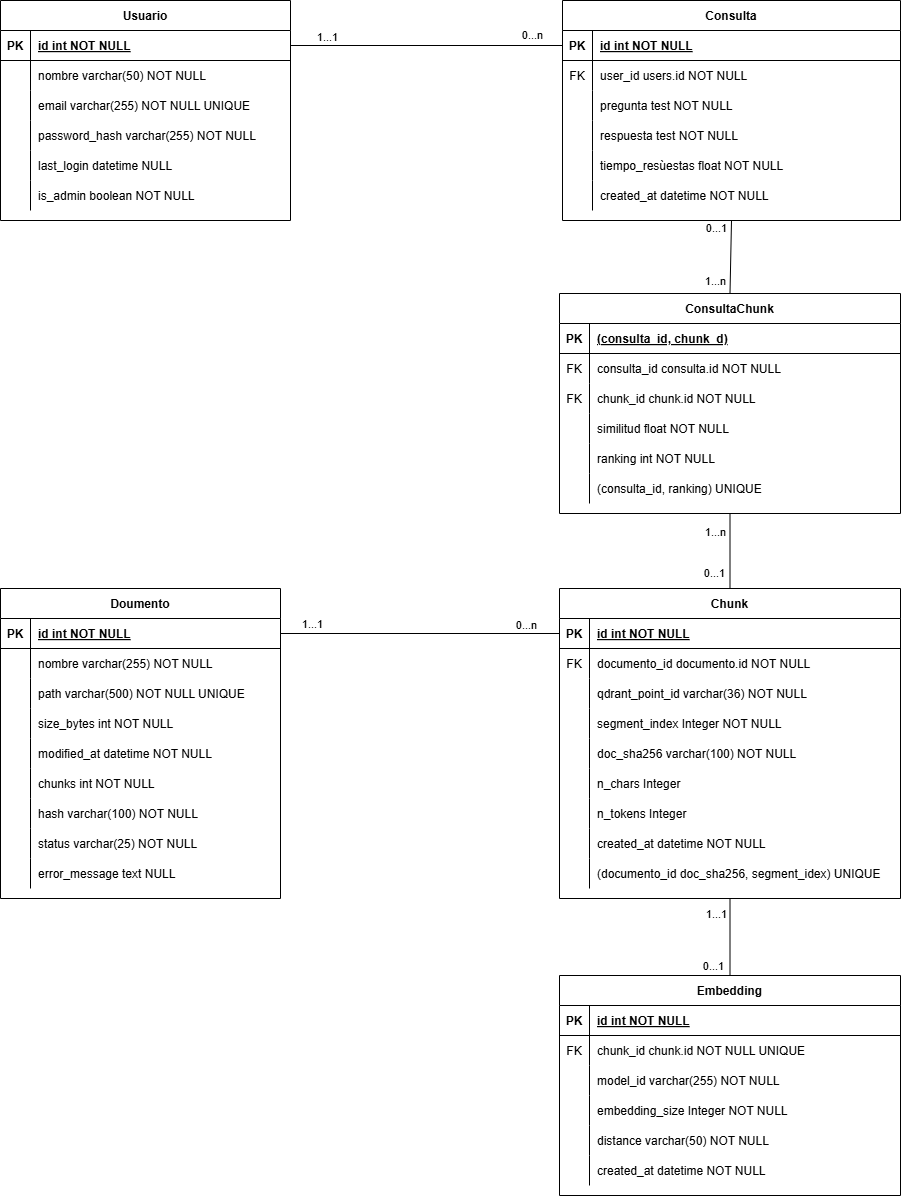
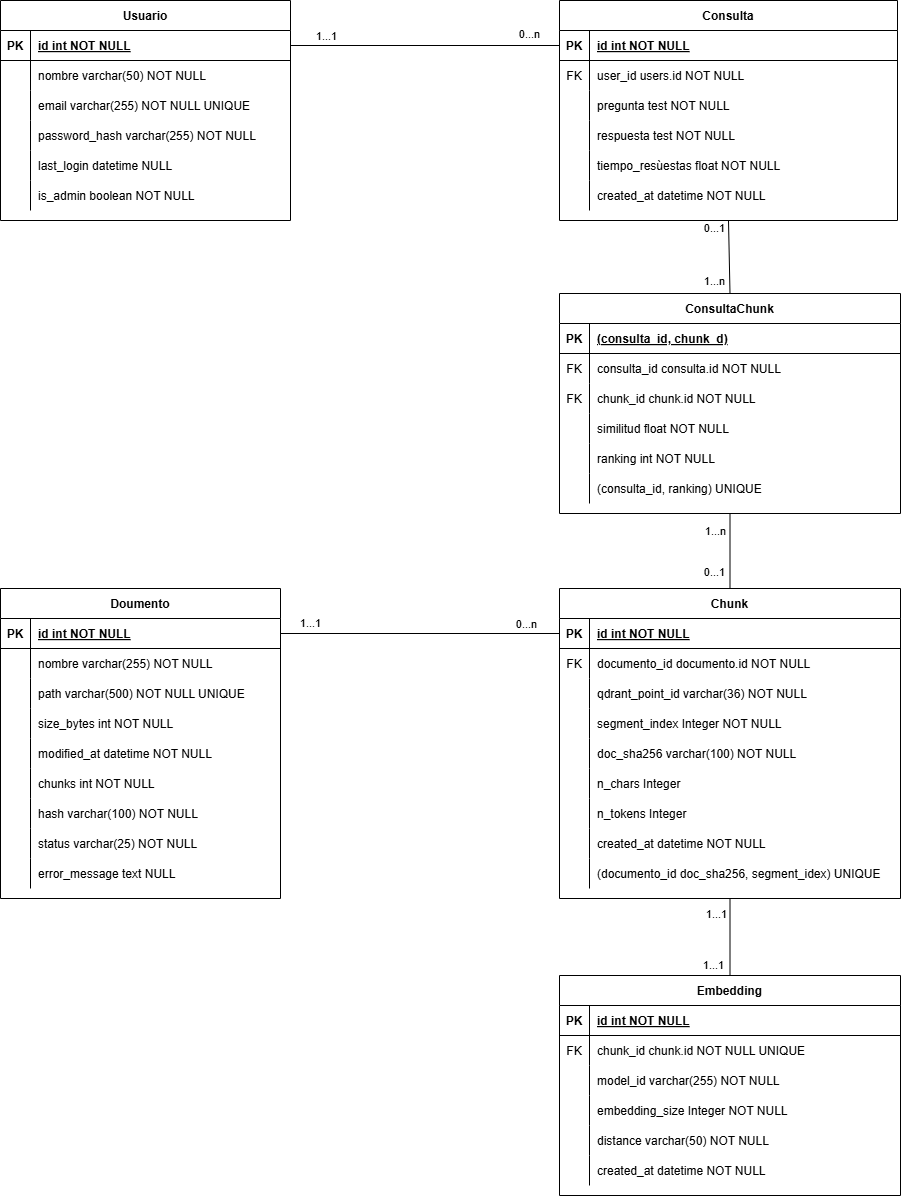
Correcciones del diseño de datos en los anexos

Changed region(s): [[0.6215, 0.0309, 0.8701, 0.2166], [0.9945, 0.0, 1.0, 0.1856], [0.7769, 0.0, 0.8391, 0.0309]]

diff --git a/docs/LaTex/tex/C_Diseno.tex b/docs/LaTex/tex/C_Diseno.tex
@@ -22,7 +22,7 @@ Las relaciones entre las entidades son:
 	\item Cada consulta pertenece a un usuario.
 	\item Un documento tiene cero (si esta cargado pero no indexado) o varios \textit{chunks}.
 	\item Cada \textit{chunk} pertenece a un documento.
-	\item Un \textit{chunk} puede tener cero o un \textit{embedding}.
+	\item Un \textit{chunk} tiene un \textit{embedding}.
 	\item Cada \textit{embedding} pertenece a un \textit{chunk}.
 	\item Una consulta usa uno o varios \textit{chunk}.
 	\item Un \textit{chunk} puede ser usado por cero o varias consultas.
@@ -57,7 +57,7 @@ Los prototipos iniciales que se crearon se ilustran en las figuras ~\ref{fig:Dis
 \imagenflotante{Diseño_interfaces/prototipos/Edit_user}{Prototipo de la página de edición del usuario.}
 \imagenflotante{Diseño_interfaces/prototipos/Documents}{Prototipo de la página de gestión de documentos.}
 
-Aunque estos prototipos se asemejan mucho a las interfaces finales se han realizado diversos cambios. Por ejemplo se ha cambiado la cabecera para aportar más información como el nombre del usuario que inicia sesión, su rol (usuario normal o administrador) y su último inicio de sesión ~\ref{fig:Diseño_interfaces/Cabecera}. Además, se ha añadido información relevante que no se había valorado inicialmente a la tabla del historial de consultas y a la de documentos cargados. En la tabla del historial de consultas se han añadido diversos campos para aportar toda la información relevante sobre la consulta. Añadiendo el documento al que pertenece el \textit{chunk} principal y la fecha en la que el usuario hizo la consulta. Para el administrador, también, se ha añadido una columna en la que se indica el nombre del usuario que hizo la consulta. Además, para mejorar la legibilidad de la tabla se ha decidido ubicar la respuesta debajo de la fila en un desplegable ~\ref{fig:Diseño_interfaces/Table_asks}. Por su parte, en la tabla donde se muestran los documentos cargados del sistema se han añadido dos columnas una que indica el tamaño del documento y otra que indica el estado de ese documento en el sistema (cargado, indexado o fallido) ~\ref{fig:Diseño_interfaces/Table_documents}. Otro aspecto relevante es que en la página para realizar la consulta se ha añadido un desplegable para ver los \textit{chunks} utilizados  ~\ref{fig:Diseño_interfaces/RAG_def}.
+Aunque estos prototipos se asemejan mucho a las interfaces finales se han realizado diversos cambios. Por ejemplo se ha cambiado la cabecera para aportar más información como el nombre del usuario que inicia sesión, su rol (usuario normal o administrador) y su último inicio de sesión (ver imagen de la cabecera final~\ref{fig:Diseño_interfaces/Cabecera}). Además, se ha añadido información relevante que no se había valorado inicialmente a la tabla del historial de consultas y a la de documentos cargados. En la tabla del historial de consultas se han añadido diversos campos para aportar toda la información relevante sobre la consulta. Añadiendo el documento al que pertenece el \textit{chunk} principal y la fecha en la que el usuario hizo la consulta. Para el administrador, también, se ha añadido una columna en la que se indica el nombre del usuario que hizo la consulta. Además, para mejorar la legibilidad de la tabla se ha decidido ubicar la respuesta debajo de la fila en un desplegable (ver imagen del historial de consulta definitivo~\ref{fig:Diseño_interfaces/Table_asks}). Por su parte, en la tabla donde se muestran los documentos cargados del sistema se han añadido dos columnas una que indica el tamaño del documento y otra que indica el estado de ese documento en el sistema (cargado, indexado o fallido) (Ver imagen del diseño final de la tabla documentos~\ref{fig:Diseño_interfaces/Table_documents}). Otro aspecto relevante es que en la página para realizar la consulta se ha añadido un desplegable para ver los \textit{chunks} utilizados ( Ver imagen de la página de consultas definitiva~\ref{fig:Diseño_interfaces/RAG_def}).
 
 \imagenflotante{Diseño_interfaces/Cabecera}{Diseño de interfaz - Cabecera.}
 